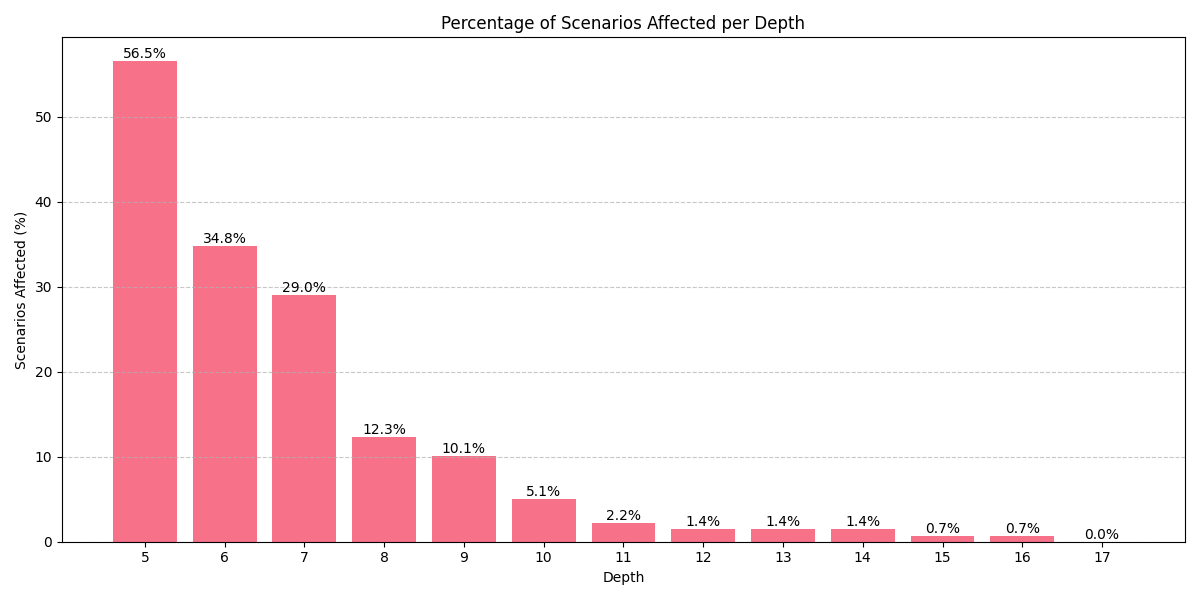
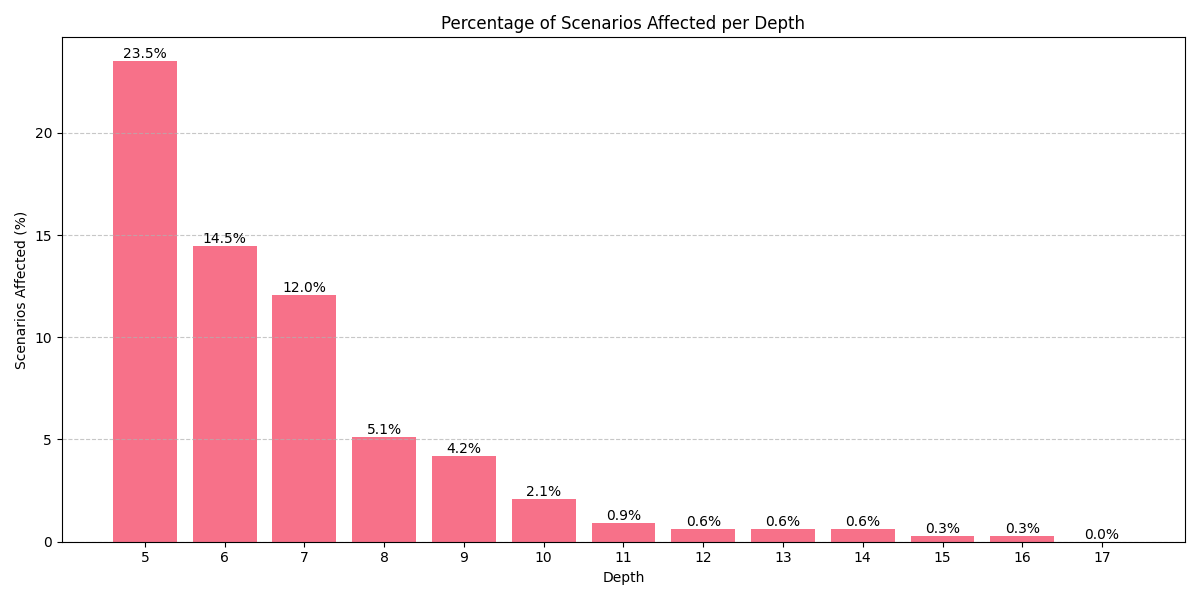
Adding fixes to report analysis

diff --git a/oa-analysis/scenarioAnalysis/scenarioAnalysis.py b/oa-analysis/scenarioAnalysis/scenarioAnalysis.py
@@ -8,23 +8,23 @@ class ScenarioAnalyzer:
 
     def analyze(self, plot=True):
         conflict_df = pd.read_csv(CONFLICT_STATS_CSV)
-        scenario_df = pd.read_csv(SCENARIO_STATS_CSV)
+        scenarioJAR_df = pd.read_csv(SCENARIO_STATS_CSV)
 
-        self._print_statistics(conflict_df, scenario_df)
+        self._print_statistics(conflict_df, scenarioJAR_df)
         
         if plot:
-            self._create_plots(conflict_df, scenario_df)
+            self._create_plots(conflict_df, scenarioJAR_df)
 
-    def _print_statistics(self, conflict_df, scenario_df):
-        total_scenarios = len(scenario_df)
-        total_jars = scenario_df[COL_SCENARIO_JAR].nunique()
+    def _print_statistics(self, conflict_df, scenarioJAR_df):
+        total_scenarios = conflict_df[COL_SCENARIO_INDEX].nunique()
+        total_jars = scenarioJAR_df[COL_SCENARIO_JAR].nunique()
 
         print("\nScenario Analysis Results:")
         print(f"Total scenario JARs: {total_jars}")
         print(f"Total scenarios: {total_scenarios}")
         print("\nScenario Statistics:")
-        print(f"Average conflicts per scenario: {scenario_df[COL_NUM_CONFLICTS].mean():.2f}")
-        print(f"Average scenarios per JAR: {scenario_df[COL_NUM_SCENARIOS].mean():.2f}")
+        print(f"Average conflicts per JAR: {scenarioJAR_df[COL_NUM_CONFLICTS].mean():.2f}")
+        print(f"Average scenarios per JAR: {scenarioJAR_df[COL_NUM_SCENARIOS].mean():.2f}")
 
         scenario_stats = self._calculate_scenario_stats(conflict_df)
         self._print_threshold_stats(scenario_stats)
@@ -70,10 +70,10 @@ class ScenarioAnalyzer:
             print(f">{threshold}% same class: {class_pct:.1f}%")
             print(f">{threshold}% same method: {method_pct:.1f}%")
 
-    def _create_plots(self, conflict_df, scenario_df):
+    def _create_plots(self, conflict_df, scenarioJAR_df):
         # Plot scenarios per jar distribution
         self.visualizer.plot_histogram(
-            data=scenario_df[COL_NUM_SCENARIOS],
+            data=scenarioJAR_df[COL_NUM_SCENARIOS],
             bins=DEFAULT_HIST_BINS,
             title='Number of Scenarios per ScenarioJAR',
             xlabel='Number of Scenarios',
@@ -97,7 +97,7 @@ class ScenarioAnalyzer:
             )
 
         # Metrics per scenario
-        total_scenarios = len(scenario_df)
+        total_scenarios = conflict_df[COL_SCENARIO_INDEX].nunique()
         scenario_max_depth = conflict_df.groupby(COL_SCENARIO_INDEX)[COL_DEPTH].max()
         scenario_min_depth = conflict_df.groupby(COL_SCENARIO_INDEX)[COL_DEPTH].min()
 

diff --git a/oa-analysis/conflictAnalysis/conflictAnalysis.py b/oa-analysis/conflictAnalysis/conflictAnalysis.py
@@ -15,6 +15,7 @@ class ConflictAnalyzer:
     
     def _print_statistics(self, df):
         total_conflicts = len(df)
+        total_scenarios = df[COL_SCENARIO_INDEX].nunique()
         same_depth_count = sum(df[COL_LEFT_LENGTH] == df[COL_RIGHT_LENGTH])
         same_class_count = sum(df[COL_SAME_CLASS])
         same_method_count = sum(df[COL_SAME_METHOD])        
@@ -23,9 +24,10 @@ class ConflictAnalyzer:
         diff_mean = df[COL_DIFF].mean()
         diff_median = df[COL_DIFF].median()
 
-        for deph_stat in range(DEFAULT_DEPTH, MAX_DEPTH + 1):
-            count = sum(df[COL_DEPTH] > deph_stat)
-            print(f"Conflicts affected when depth is {deph_stat}: {count} ({(count/total_conflicts*100):.2f}%)")
+        conflicts_per_scenario = df.groupby(COL_SCENARIO_INDEX).size()
+        for deph_stat in range(0, MAX_DEPTH + 1):
+            count = sum(conflicts_per_scenario == deph_stat)
+            print(f"Scenarios with conflicts {deph_stat}: {count} ({(count/total_scenarios*100):.2f}%)")
 
         print("\nConflict Analysis Results:")
         print(f"Total conflicts analyzed: {total_conflicts}")
@@ -138,7 +140,6 @@ class ConflictAnalyzer:
             filename=PLOT_DIFF_HIST
         )
 
-        # Conflicts per scenario/jar
         conflicts_per_scenario = df.groupby(COL_SCENARIO_INDEX).size()
         self.visualizer.plot_histogram(
             data=conflicts_per_scenario,
@@ -157,7 +158,6 @@ class ConflictAnalyzer:
             filename=PLOT_CONFLICTS_PER_JAR
         )
         
-        # Plot conflict depth lines
         self.visualizer.plot_conflict_depth_lines(
             df=df,
             title='Conflict Depths Behavior',
